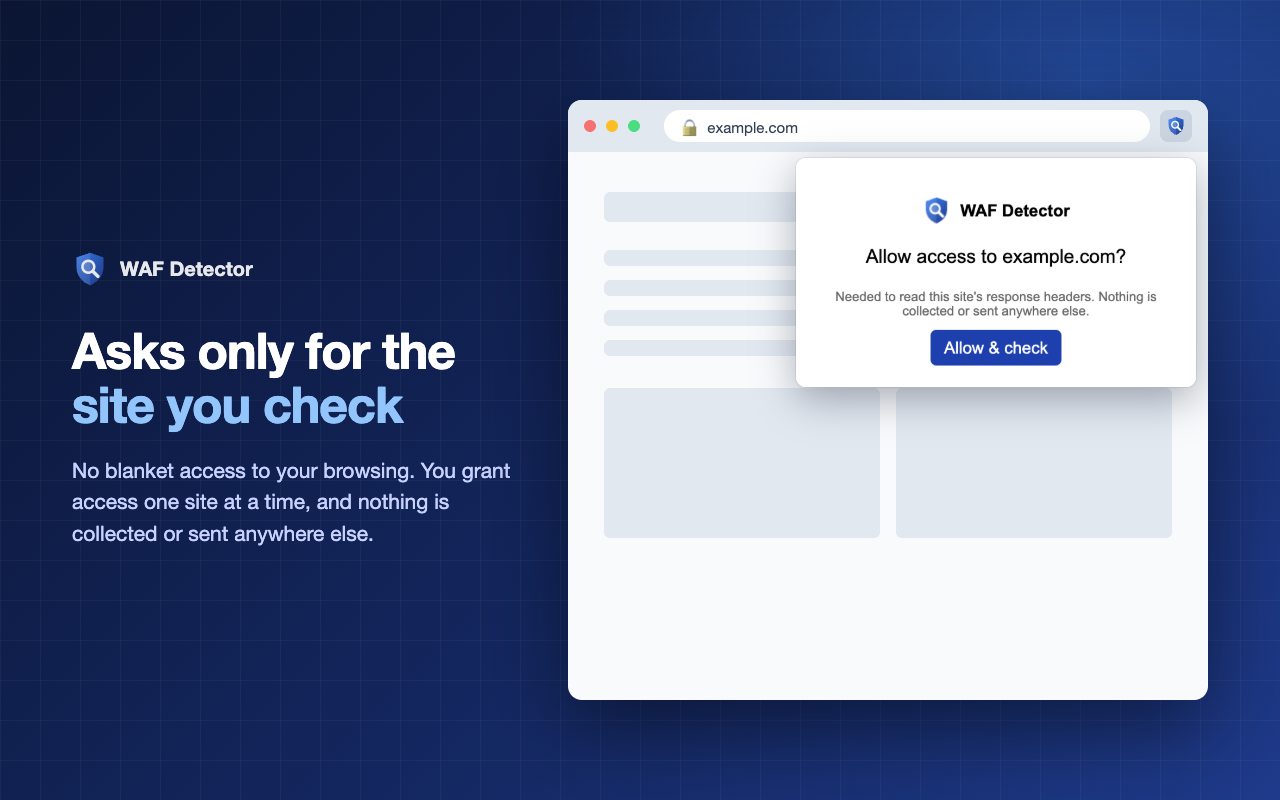
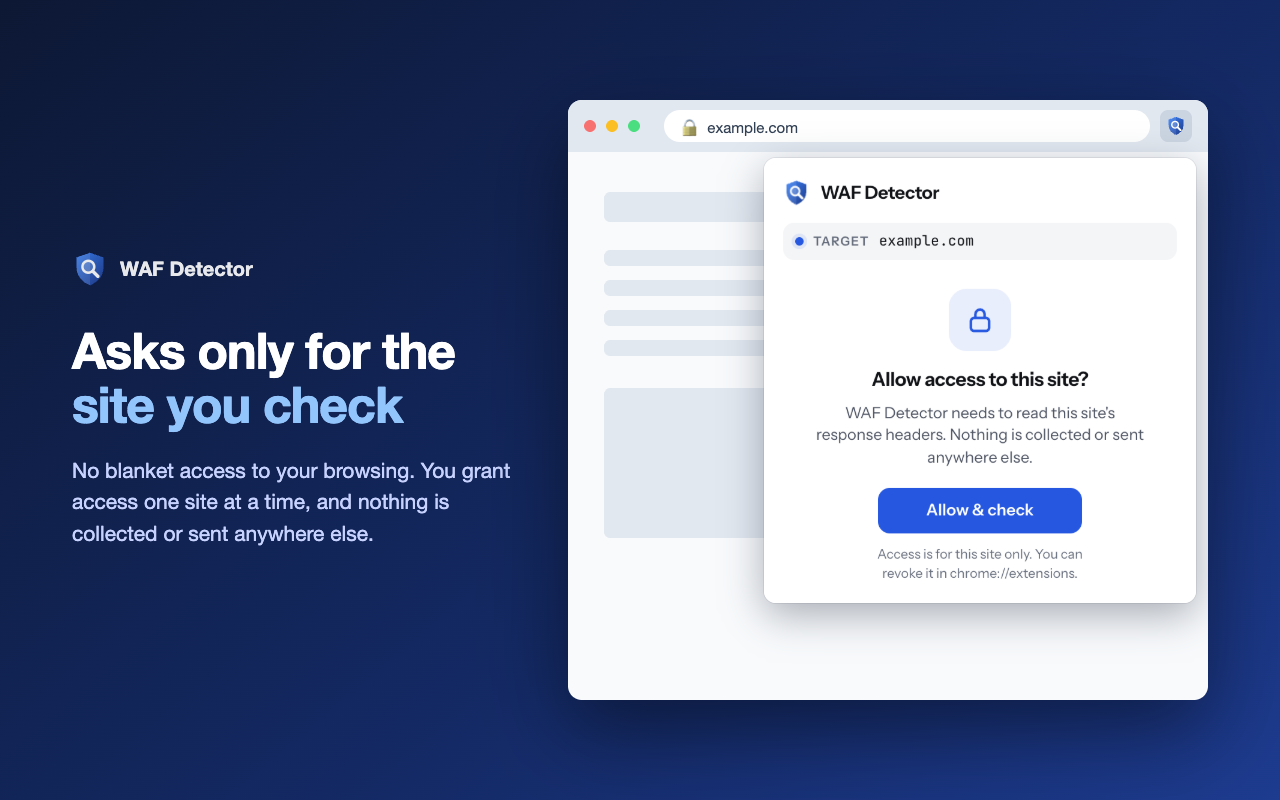
Update store screenshots and promo tile for v1.5
New popup UI captured from real checks (example.com, httpbin.org,
www.wix.com), a fourth screenshot for dark theme and layered services,
and a cleaner background without the grid pattern.

Changed region(s): [[0.5625, 0.2188, 0.9688, 0.7188], [0.5938, 0.0, 1.0, 0.2812], [0.5938, 0.7188, 0.9375, 0.7812]]

diff --git a/store/LISTING.md b/store/LISTING.md
@@ -51,7 +51,7 @@ Open source (MIT): https://github.com/zildjiean/WhatWAF
 | Category | **Developer Tools** |
 | Language | English |
 | Store icon | `icons/icon128.png` (มีขอบ 16px ตามข้อแนะนำแล้ว) |
-| Screenshots | `store/screenshot-1-detect.png`, `screenshot-2-permission.png`, `screenshot-3-honest.png` (1280×800) |
+| Screenshots | `store/screenshot-1-detect.png`, `screenshot-2-permission.png`, `screenshot-3-honest.png`, `screenshot-4-dark.png` (1280×800, v1.5 UI; popup content comes from real checks) |
 | Small promo tile | `store/promo-small-440x280.png` |
 | Marquee promo tile | ไม่ต้องใส่ (ไม่บังคับ) |
 | Homepage URL | https://github.com/zildjiean/WhatWAF |
